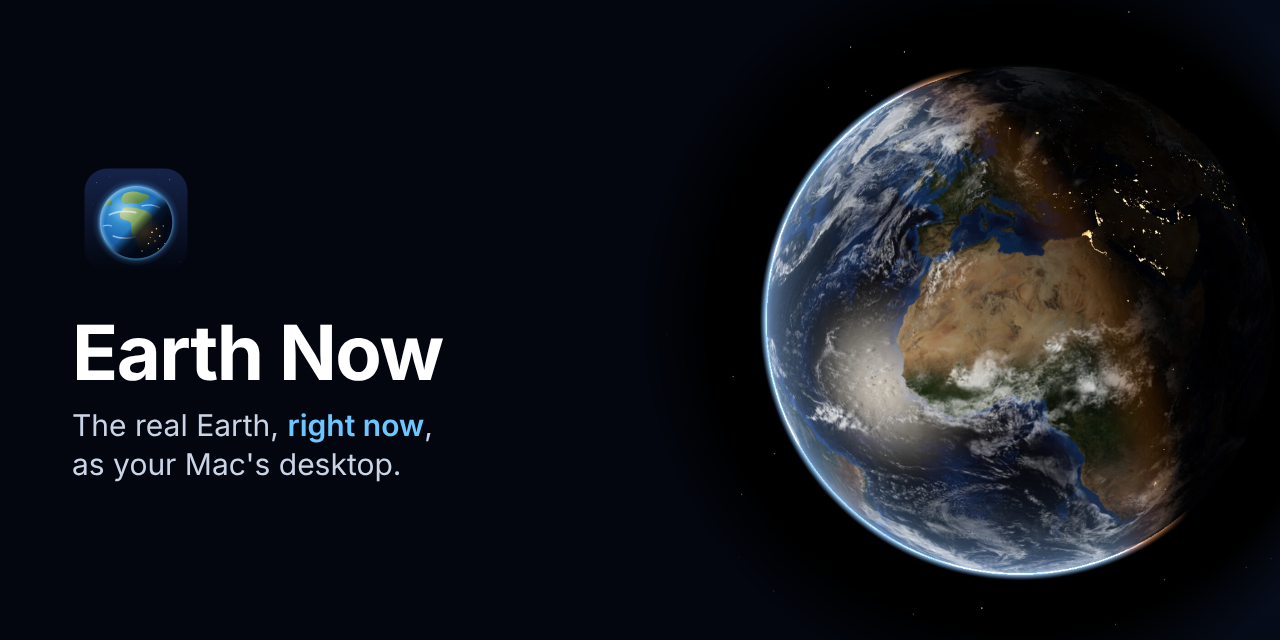
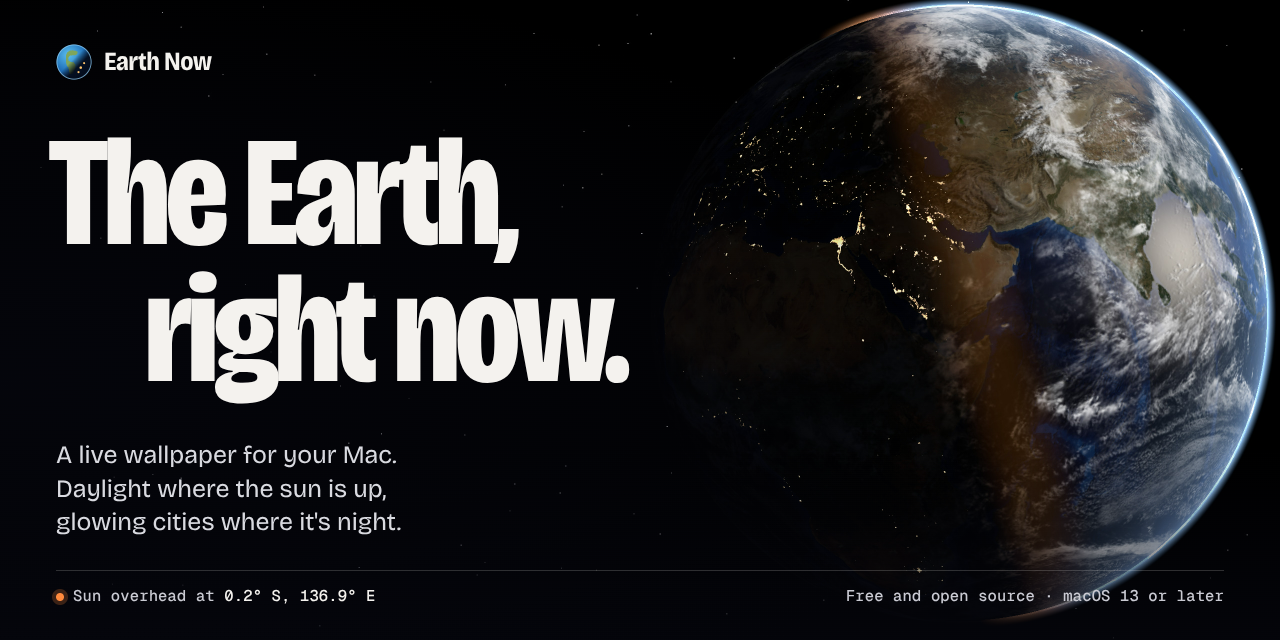
Website: new social share image; versioned URL so link previews refresh

diff --git a/site/index.html b/site/index.html
@@ -12,14 +12,14 @@
 <meta property="og:title" content="Earth Now: the live Earth as your Mac wallpaper">
 <meta property="og:description" content="The real Earth, right now, behind your desktop icons. Free and open source.">
 <meta property="og:url" content="https://hensobo.github.io/earth-now/">
-<meta property="og:image" content="https://hensobo.github.io/earth-now/assets/screenshots/social-preview.png">
+<meta property="og:image" content="https://hensobo.github.io/earth-now/assets/screenshots/social-preview.png?v=2">
 <meta property="og:image:width" content="1280">
 <meta property="og:image:height" content="640">
 <meta property="og:image:alt" content="The Earth half in daylight, half at night with glowing cities">
 <meta name="twitter:card" content="summary_large_image">
 <meta name="twitter:title" content="Earth Now: the live Earth as your Mac wallpaper">
 <meta name="twitter:description" content="The real Earth, right now, behind your desktop icons. Free and open source.">
-<meta name="twitter:image" content="https://hensobo.github.io/earth-now/assets/screenshots/social-preview.png">
+<meta name="twitter:image" content="https://hensobo.github.io/earth-now/assets/screenshots/social-preview.png?v=2">
 <link rel="icon" href="favicon.ico" sizes="16x16 32x32 48x48">
 <link rel="icon" href="assets/icon/favicon.svg" type="image/svg+xml">
 <link rel="apple-touch-icon" href="assets/icon/apple-touch-icon.png">

diff --git a/site/info/index.html b/site/info/index.html
@@ -12,7 +12,7 @@
 <meta property="og:title" content="Privacy and credits · Earth Now">
 <meta property="og:description" content="No tracking, no accounts. Built on NASA imagery, EUMETSAT cloud data and three.js.">
 <meta property="og:url" content="https://hensobo.github.io/earth-now/info/">
-<meta property="og:image" content="https://hensobo.github.io/earth-now/assets/screenshots/social-preview.png">
+<meta property="og:image" content="https://hensobo.github.io/earth-now/assets/screenshots/social-preview.png?v=2">
 <meta name="twitter:card" content="summary_large_image">
 <link rel="icon" href="../favicon.ico" sizes="16x16 32x32 48x48">
 <link rel="icon" href="../assets/icon/favicon.svg" type="image/svg+xml">
